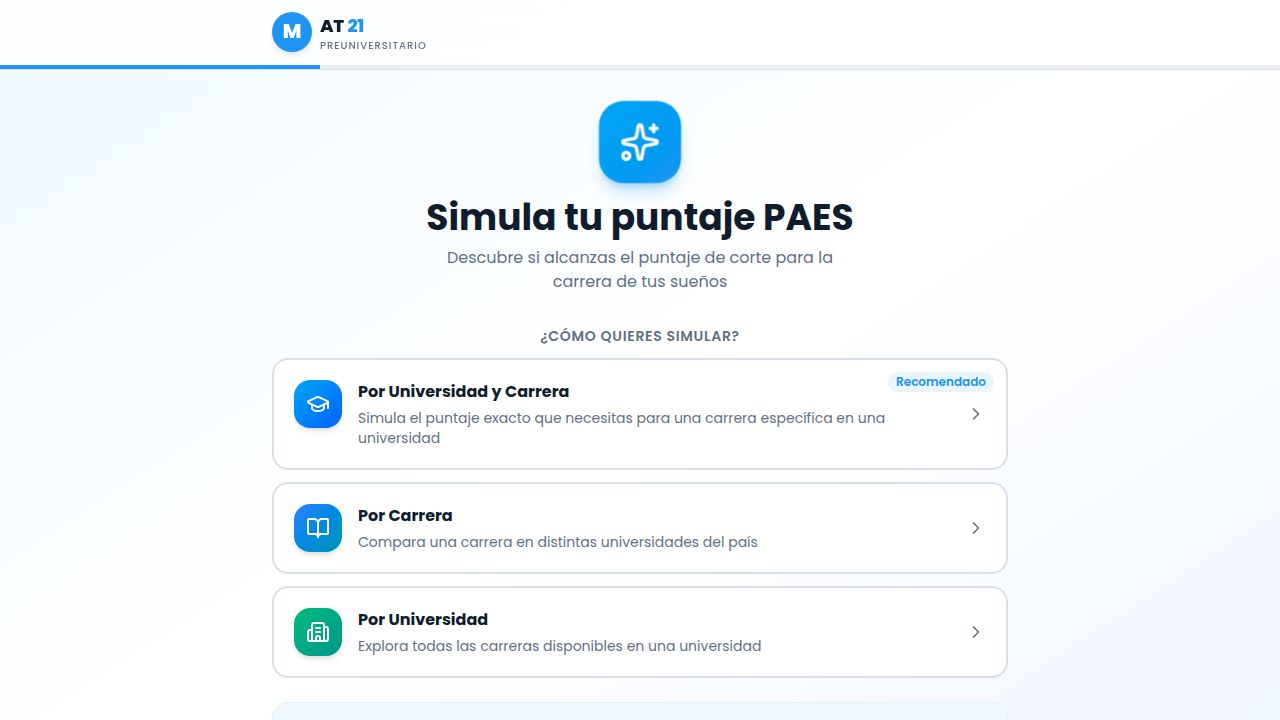
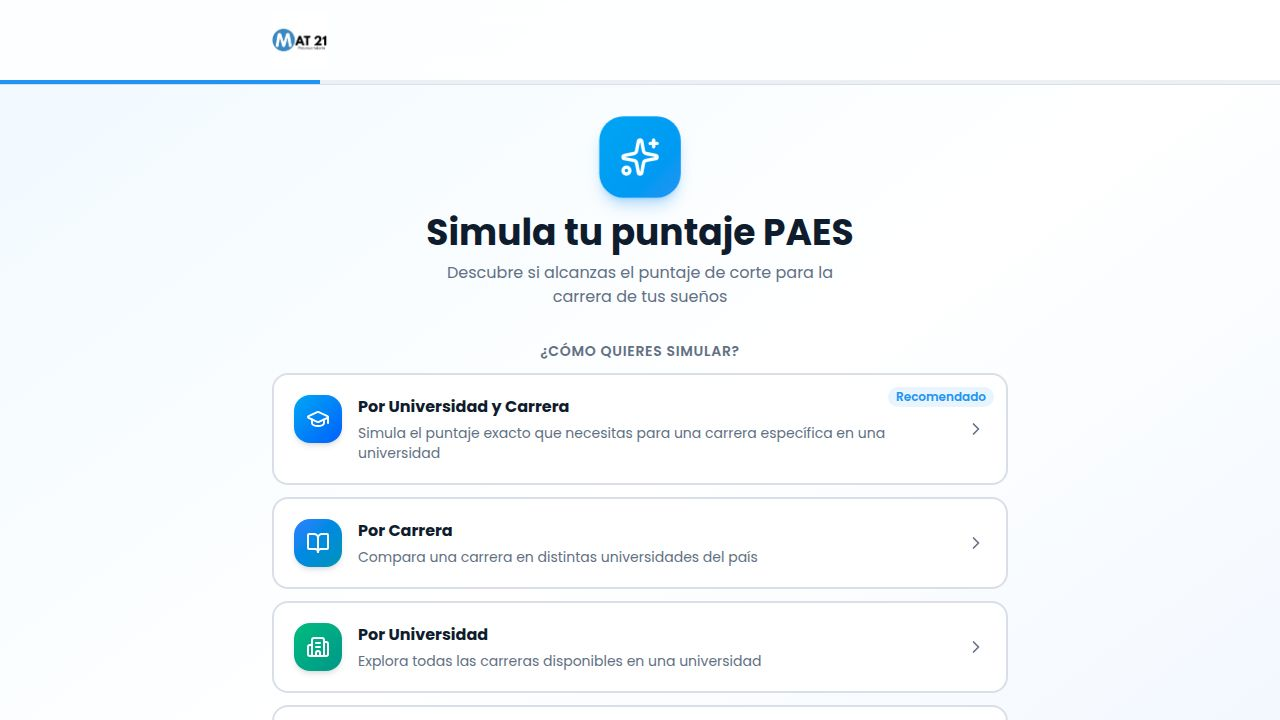
Add city filtering to career search and improve simulator interface
Introduce a new "Por Ciudad" mode to the simulator, enabling users to filter careers by city, with optional university selection. This involves backend changes to support city-based filtering in the API and frontend updates to the simulator's UI and data fetching logic. Additionally, the existing "Por Universidad y Carrera" mode now displays the city for distinction between duplicate career names.

Replit-Commit-Author: Agent
Replit-Commit-Session-Id: fa60f01c-66c4-48cb-aa47-d3058262107b
Replit-Commit-Checkpoint-Type: full_checkpoint
Replit-Commit-Event-Id: a0b8f0f2-3740-457a-8252-91427247c46c
Replit-Commit-Screenshot-Url: https://storage.googleapis.com/screenshot-production-us-central1/f0b99f3d-7621-41c9-a47b-33bd1d3e7451/fa60f01c-66c4-48cb-aa47-d3058262107b/S0gftUH
Replit-Helium-Checkpoint-Created: true

diff --git a/artifacts/simulador-paes/src/pages/Simulator.tsx b/artifacts/simulador-paes/src/pages/Simulator.tsx
@@ -1,7 +1,7 @@
 import { useState, useMemo, useEffect } from "react";
 import { motion, AnimatePresence } from "framer-motion";
 import {
-  GraduationCap, BookOpen, Building2,
+  GraduationCap, BookOpen, Building2, MapPinned,
   ChevronRight, ChevronLeft, RotateCcw, Trophy,
   Sparkles, Calculator, MapPin
 } from "lucide-react";
@@ -12,7 +12,7 @@ import { Combobox } from "@/components/Combobox";
 import { Logo } from "@/components/Logo";
 import { useListCarreras, useGetCarreraFilters, useGetCarrera } from "@workspace/api-client-react";
 
-type Mode = "uni-y-carrera" | "por-carrera" | "por-universidad";
+type Mode = "uni-y-carrera" | "por-carrera" | "por-universidad" | "por-ciudad";
 
 const TEST_LABELS: Record<string, { label: string; short: string }> = {
   CL: { label: "Competencia Lectora", short: "CL" },
@@ -63,16 +63,28 @@ const COLOR_STYLES = {
 export default function Simulator() {
   const [step, setStep] = useState(1);
   const [mode, setMode] = useState<Mode | null>(null);
+  const [ciudad, setCiudad] = useState<string>("");
   const [universidad, setUniversidad] = useState<string>("");
   const [carreraId, setCarreraId] = useState<number | null>(null);
   const [scores, setScores] = useState<Record<string, string>>({});
   const [puntajeFinal, setPuntajeFinal] = useState<number | null>(null);
 
+  // Global (unfiltered) filter options — used for the universidad selector in
+  // uni-y-carrera / por-universidad modes and for the ciudades list in por-ciudad.
   const { data: filters } = useGetCarreraFilters();
-  // Fetch all carreras once (used for combobox options on step 2)
+  // City-scoped filters — used by por-ciudad mode to constrain the universidades
+  // to those that actually appear in the selected city.
+  const { data: cityFilters } = useGetCarreraFilters(
+    { ciudad: ciudad || undefined },
+    { query: { enabled: mode === "por-ciudad" && !!ciudad, queryKey: ["sim-city-filters", ciudad] } }
+  );
+  // Fetch carreras for the current selectors (used for combobox options on step 2)
   const { data: allCarreras } = useListCarreras(
-    { universidad: universidad || undefined },
-    { query: { enabled: step === 2, queryKey: ["sim-carreras", universidad, mode] } }
+    {
+      universidad: universidad || undefined,
+      ciudad: mode === "por-ciudad" ? (ciudad || undefined) : undefined,
+    },
+    { query: { enabled: step === 2, queryKey: ["sim-carreras", universidad, ciudad, mode] } }
   );
   const { data: selectedCarrera } = useGetCarrera(carreraId!, {
     query: { enabled: !!carreraId && step >= 3, queryKey: ["sim-carrera", carreraId] }
@@ -81,6 +93,7 @@ export default function Simulator() {
   const reset = () => {
     setStep(1);
     setMode(null);
+    setCiudad("");
     setUniversidad("");
     setCarreraId(null);
     setScores({});
@@ -133,7 +146,18 @@ export default function Simulator() {
   }, [carreraId]);
 
   const universidadOptions = useMemo(
-    () => filters?.universidades.map(u => ({ value: u, label: u })) ?? [],
+    () => filters?.universidades?.map(u => ({ value: u, label: u })) ?? [],
+    [filters]
+  );
+
+  // Universidades scoped to the selected city for por-ciudad mode.
+  const universidadOptionsByCiudad = useMemo(
+    () => cityFilters?.universidades?.map(u => ({ value: u, label: u })) ?? [],
+    [cityFilters]
+  );
+
+  const ciudadOptions = useMemo(
+    () => filters?.ciudades?.map(c => ({ value: c, label: c })) ?? [],
     [filters]
   );
 
@@ -146,9 +170,11 @@ export default function Simulator() {
           ? `${c.nombre} — ${c.universidad} (${c.ciudad})`
           : mode === "por-universidad"
           ? `${c.nombre} (${c.ciudad})`
-          : c.nombre,
+          : mode === "por-ciudad"
+          ? (universidad ? `${c.nombre}` : `${c.nombre} — ${c.universidad}`)
+          : `${c.nombre} (${c.ciudad})`,
     }));
-  }, [allCarreras, mode]);
+  }, [allCarreras, mode, universidad]);
 
   const totalSteps = 4;
 
@@ -232,10 +258,23 @@ export default function Simulator() {
                       desc: "Explora todas las carreras disponibles en una universidad",
                       color: "from-emerald-500 to-teal-600",
                     },
+                    {
+                      id: "por-ciudad" as Mode,
+                      icon: MapPinned,
+                      title: "Por Ciudad",
+                      desc: "Encuentra carreras en una ciudad específica del país",
+                      color: "from-amber-500 to-orange-600",
+                    },
                   ].map((opt) => (
                     <button
                       key={opt.id}
-                      onClick={() => { setMode(opt.id); setStep(2); }}
+                      onClick={() => {
+                        setMode(opt.id);
+                        setCiudad("");
+                        setUniversidad("");
+                        setCarreraId(null);
+                        setStep(2);
+                      }}
                       className="group relative bg-white rounded-2xl border-2 border-border p-5 text-left hover:border-primary hover:shadow-lg transition-all"
                       data-testid={`mode-${opt.id}`}
                     >
@@ -286,31 +325,57 @@ export default function Simulator() {
                   {mode === "uni-y-carrera" && "Elige universidad y carrera"}
                   {mode === "por-carrera" && "Elige una carrera"}
                   {mode === "por-universidad" && "Elige una universidad"}
+                  {mode === "por-ciudad" && "Elige ciudad y carrera"}
                 </h2>
                 <p className="text-sm text-muted-foreground mb-6">
                   {mode === "uni-y-carrera" && "Encuentra el puntaje exacto que necesitas"}
                   {mode === "por-carrera" && "Compara opciones en distintas universidades"}
                   {mode === "por-universidad" && "Explora todas las carreras disponibles"}
+                  {mode === "por-ciudad" && "Filtra por ciudad y, si quieres, por universidad"}
                 </p>
 
                 <div className="space-y-5">
-                  {/* Universidad selector (for uni-y-carrera and por-universidad) */}
-                  {(mode === "uni-y-carrera" || mode === "por-universidad") && (
+                  {/* Ciudad selector (only for por-ciudad) */}
+                  {mode === "por-ciudad" && (
                     <div className="space-y-2">
                       <Label className="text-xs font-bold text-muted-foreground uppercase tracking-wider">
-                        Universidad
+                        Ciudad
                       </Label>
                       <Combobox
-                        options={universidadOptions}
+                        options={ciudadOptions}
+                        value={ciudad}
+                        onChange={(v) => { setCiudad(v); setUniversidad(""); setCarreraId(null); }}
+                        placeholder="Selecciona o escribe una ciudad"
+                        testId="combobox-ciudad"
+                      />
+                    </div>
+                  )}
+
+                  {/* Universidad selector (for uni-y-carrera, por-universidad, and por-ciudad) */}
+                  {(mode === "uni-y-carrera" || mode === "por-universidad" || mode === "por-ciudad") && (
+                    <div className="space-y-2">
+                      <Label className="text-xs font-bold text-muted-foreground uppercase tracking-wider">
+                        Universidad{mode === "por-ciudad" ? " (opcional)" : ""}
+                      </Label>
+                      <Combobox
+                        options={mode === "por-ciudad" ? universidadOptionsByCiudad : universidadOptions}
                         value={universidad}
                         onChange={(v) => { setUniversidad(v); setCarreraId(null); }}
-                        placeholder="Selecciona o escribe una universidad"
+                        placeholder={
+                          mode === "por-ciudad" && !ciudad
+                            ? "Primero selecciona la ciudad"
+                            : mode === "por-ciudad"
+                            ? "Cualquier universidad de la ciudad"
+                            : "Selecciona o escribe una universidad"
+                        }
+                        disabled={mode === "por-ciudad" && !ciudad}
+                        emptyMsg="No hay universidades disponibles"
                         testId="combobox-universidad"
                       />
                     </div>
                   )}
 
-                  {/* Carrera selector (for uni-y-carrera, por-carrera, por-universidad) */}
+                  {/* Carrera selector (always) */}
                   <div className="space-y-2">
                     <Label className="text-xs font-bold text-muted-foreground uppercase tracking-wider">
                       Carrera
@@ -322,9 +387,14 @@ export default function Simulator() {
                       placeholder={
                         mode === "uni-y-carrera" && !universidad
                           ? "Primero selecciona la universidad"
+                          : mode === "por-ciudad" && !ciudad
+                          ? "Primero selecciona la ciudad"
                           : "Selecciona o escribe una carrera"
                       }
-                      disabled={mode === "uni-y-carrera" && !universidad}
+                      disabled={
+                        (mode === "uni-y-carrera" && !universidad) ||
+                        (mode === "por-ciudad" && !ciudad)
+                      }
                       emptyMsg="No hay carreras disponibles"
                       testId="combobox-carrera"
                     />

diff --git a/artifacts/api-server/src/routes/carreras.ts b/artifacts/api-server/src/routes/carreras.ts
@@ -1,9 +1,10 @@
 import { Router, type IRouter } from "express";
-import { eq, ilike, and, or, sql } from "drizzle-orm";
+import { eq, ilike, and, or } from "drizzle-orm";
 import { db, carrerasTable } from "@workspace/db";
 import {
   ListCarrerasQueryParams,
   GetCarreraParams,
+  GetCarreraFiltersQueryParams,
 } from "@workspace/api-zod";
 
 const router: IRouter = Router();
@@ -15,11 +16,12 @@ router.get("/carreras", async (req, res): Promise<void> => {
     return;
   }
 
-  const { region, universidad, area, search } = query.data;
+  const { region, ciudad, universidad, area, search } = query.data;
 
   const conditions = [eq(carrerasTable.publicado, true)];
 
   if (region) conditions.push(eq(carrerasTable.region, region));
+  if (ciudad) conditions.push(eq(carrerasTable.ciudad, ciudad));
   if (universidad) conditions.push(eq(carrerasTable.universidad, universidad));
   if (area) conditions.push(eq(carrerasTable.area, area));
   if (search) {
@@ -40,21 +42,34 @@ router.get("/carreras", async (req, res): Promise<void> => {
   res.json(carreras);
 });
 
-router.get("/carreras/filters", async (_req, res): Promise<void> => {
+router.get("/carreras/filters", async (req, res): Promise<void> => {
+  const query = GetCarreraFiltersQueryParams.safeParse(req.query);
+  if (!query.success) {
+    res.status(400).json({ error: query.error.message });
+    return;
+  }
+  const { ciudad, universidad } = query.data;
+
+  const conditions = [eq(carrerasTable.publicado, true)];
+  if (ciudad) conditions.push(eq(carrerasTable.ciudad, ciudad));
+  if (universidad) conditions.push(eq(carrerasTable.universidad, universidad));
+
   const result = await db
     .select({
       region: carrerasTable.region,
+      ciudad: carrerasTable.ciudad,
       universidad: carrerasTable.universidad,
       area: carrerasTable.area,
     })
     .from(carrerasTable)
-    .where(eq(carrerasTable.publicado, true));
+    .where(and(...conditions));
 
   const regiones = [...new Set(result.map((r) => r.region))].sort();
+  const ciudades = [...new Set(result.map((r) => r.ciudad))].sort();
   const universidades = [...new Set(result.map((r) => r.universidad))].sort();
   const areas = [...new Set(result.map((r) => r.area))].sort();
 
-  res.json({ regiones, universidades, areas });
+  res.json({ regiones, ciudades, universidades, areas });
 });
 
 router.get("/carreras/stats", async (_req, res): Promise<void> => {